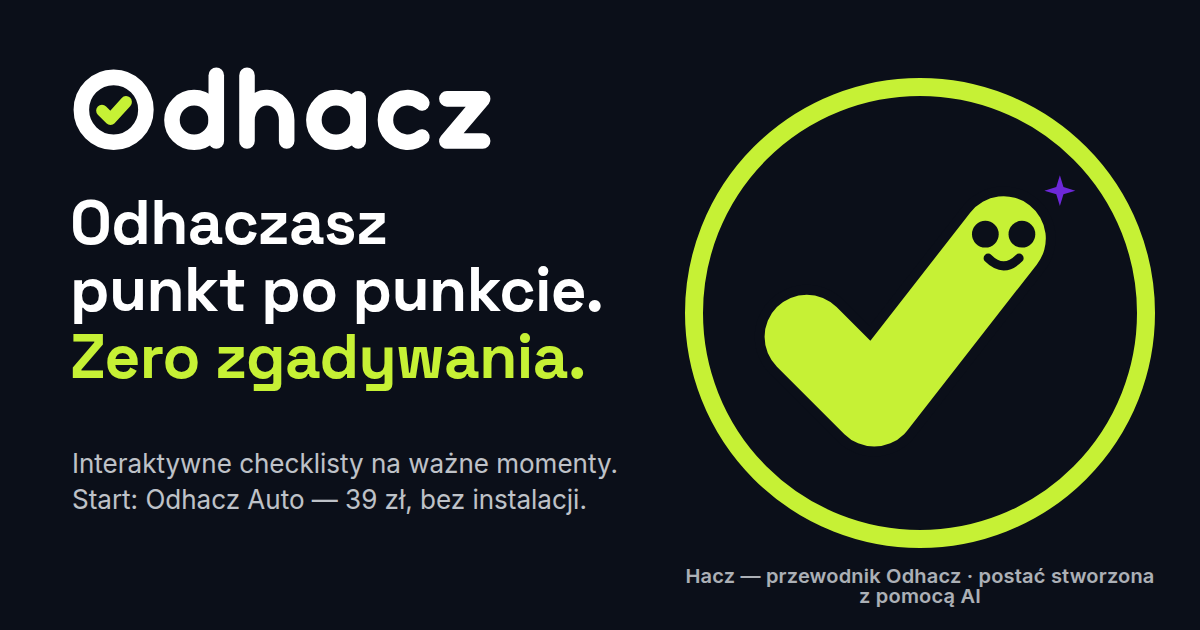
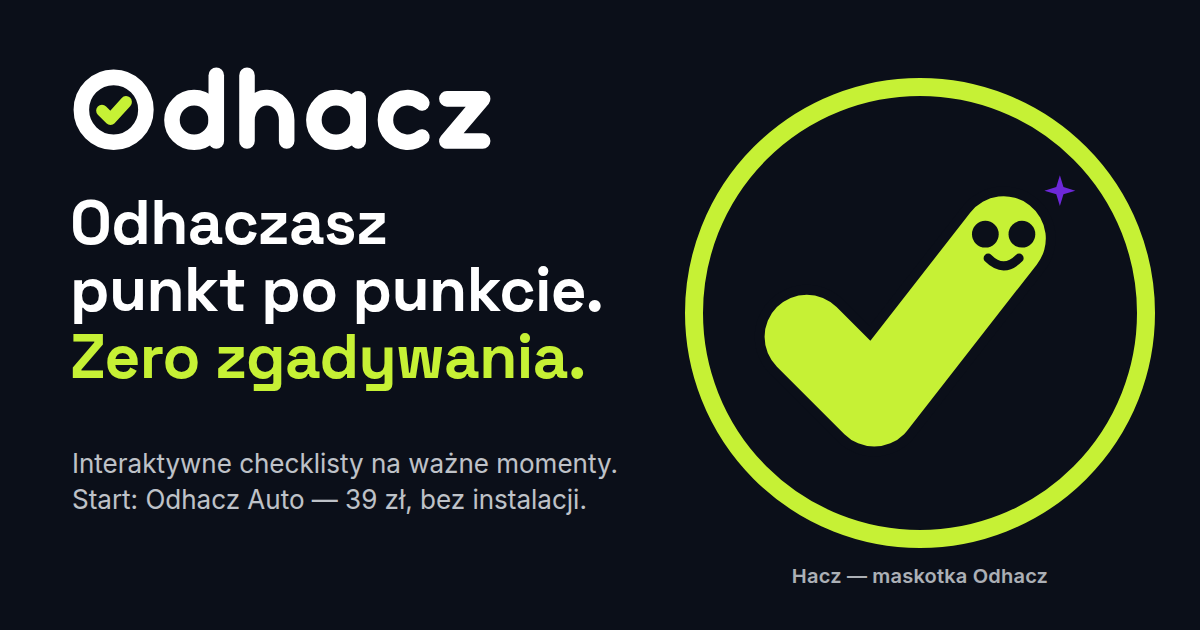
Hacz = maskotka Odhacz: koniec opowieści o AI w podpisach, bio, kreacjach i stronach; EXP-007 (płatne porównywanie raportów) w kolejce
- Podpis „Hacz — maskotka Odhacz” w aplikacji, SVG, kreacjach (PNG wyrenderowane ponownie), OG/cover/avatar, landingu, „O marce”, regulaminie, polityce, brand booku, tekstach prawnych, social.
- W stopkach prawnych zostaje tylko: „Ilustracje i postać Hacza zaprojektowane cyfrowo. Hacz to maskotka Odhacz, nie ekspert.”
- DECISIONS: doprecyzowanie narracji; EXPERIMENTS: EXP-007 z warunkami (zgoda na dane, brak sensu mikropłatności przy prowizji Stripe, masa krytyczna raportów).
- Testy: unit 38/38, e2e 1/1.

Claude-Session: https://claude.ai/code/session_01JzcUEgVUwo19DnA5ZAnGCB

Changed region(s): [[0.555, 0.9048, 0.9558, 0.9651]]

diff --git a/platform/public/assets/checklist/engine.js b/platform/public/assets/checklist/engine.js
@@ -94,7 +94,7 @@
 
   /* ------------------------------------------------------------------ mascot (Hacz) */
   // Placeholder: rounded lime check-mark character with eyes and a headlamp (Auto version). Replaced by /assets/brand/hacz.svg when present.
-  const HACZ_SVG = '<svg viewBox="0 0 120 120" xmlns="http://www.w3.org/2000/svg" role="img" aria-label="Hacz – przewodnik Odhacz">'
+  const HACZ_SVG = '<svg viewBox="0 0 120 120" xmlns="http://www.w3.org/2000/svg" role="img" aria-label="Hacz – maskotka Odhacz">'
     + '<circle cx="60" cy="60" r="56" fill="#0B0F19"/>'
     + '<path d="M28 62 L50 84 L94 38" fill="none" stroke="#C6F135" stroke-width="20" stroke-linecap="round" stroke-linejoin="round"/>'
     + '<circle cx="52" cy="51" r="6.5" fill="#0B0F19"/><circle cx="68" cy="43" r="6.5" fill="#0B0F19"/>'
@@ -114,7 +114,7 @@
   }
   function mascot(cls) {
     const wrap = el('span', { class: 'mascot ' + (cls || ''), html: HACZ_SVG });
-    const swap = () => { wrap.innerHTML = ''; wrap.append(el('img', { src: haczSrc, alt: 'Hacz – przewodnik Odhacz' })); };
+    const swap = () => { wrap.innerHTML = ''; wrap.append(el('img', { src: haczSrc, alt: 'Hacz – maskotka Odhacz' })); };
     if (haczReady === true) swap(); else if (haczReady === null) { haczWaiters.push(swap); probeHacz(); }
     return wrap;
   }
@@ -799,7 +799,7 @@
     else if (wp && !wp.complete) haczLine = 'Jesteś na kroku ' + nextTarget.stepN + '/' + wp.count + ' kreatora. ' + (cnt.problem ? 'Już ' + cnt.problem + ' ' + plural(cnt.problem, 'czerwona flaga', 'czerwone flagi', 'czerwonych flag') + ' – zapisuj notatki, przydadzą się w negocjacji.' : 'Dokończ go w domu – przy aucie nie będzie na to czasu.');
     else if (cnt.answered < cnt.total) haczLine = 'Masz ' + cnt.answered + ' z ' + cnt.total + ' punktów. ' + (cnt.problem ? 'Już ' + cnt.problem + ' ' + plural(cnt.problem, 'czerwona flaga', 'czerwone flagi', 'czerwonych flag') + ' – zapisuj notatki, przydadzą się w negocjacji.' : 'Na razie czysto. Nie zwalniaj przy silniku i jeździe próbnej.');
     else haczLine = 'Wszystko odhaczone. Sprawdź podsumowanie i zabierz listę uwag do rozmowy.';
-    out.push(el('div', { class: 'bubble' }, el('b', null, 'Hacz: '), haczLine, el('span', { class: 'sign' }, 'Hacz – przewodnik Odhacz')));
+    out.push(el('div', { class: 'bubble' }, el('b', null, 'Hacz: '), haczLine, el('span', { class: 'sign' }, 'Hacz – maskotka Odhacz')));
     // ONE primary card: „Kontynuuj: <następny krok>” (wizard step → next phase with unanswered items → summary)
     const kont = el('div', { class: 'card kontynuuj', 'data-testid': 'kontynuuj' },
       el('div', { class: 'kontynuuj__eyebrow' }, nextTarget.eyebrow),
@@ -883,7 +883,7 @@
     const self = this; const q = this.content.quick_start;
     if (!q) return [this.topbar('Quick start', ''), this.lockedCard('Ta wersja nie ma Quick startu.')];
     const out = [this.topbar(q.title || 'Quick start', '')];
-    out.push(el('div', { class: 'bubble bubble--inline' }, mascot(), el('div', null, el('b', null, 'Hacz: '), 'Trzy minuty, żeby oswoić narzędzie. Odhacz kroki, a potem wchodzisz w pierwszy etap.', el('span', { class: 'sign' }, 'Hacz – przewodnik Odhacz'))));
+    out.push(el('div', { class: 'bubble bubble--inline' }, mascot(), el('div', null, el('b', null, 'Hacz: '), 'Trzy minuty, żeby oswoić narzędzie. Odhacz kroki, a potem wchodzisz w pierwszy etap.', el('span', { class: 'sign' }, 'Hacz – maskotka Odhacz'))));
     const card = el('div', { class: 'card' });
     const list = el('ol', { class: 'steps' });
     const done = this.state.ui.qsSteps || {};
@@ -916,7 +916,7 @@
     chips.append(el('span', { class: 'chip', id: 'phase-progress' }, p.answered + '/' + p.total + ' odhaczone'));
     out.push(chips);
     if (ph.when) out.push(el('p', { class: 'when' }, el('span', { html: ICON.pin }), el('span', null, el('b', null, 'Kiedy: '), ph.when)));
-    if (ph.intro) out.push(el('div', { class: 'phase-intro' }, mascot(), el('div', { class: 'bubble' }, el('b', null, 'Hacz: '), ph.intro, el('span', { class: 'sign' }, 'Hacz – przewodnik Odhacz'))));
+    if (ph.intro) out.push(el('div', { class: 'phase-intro' }, mascot(), el('div', { class: 'bubble' }, el('b', null, 'Hacz: '), ph.intro, el('span', { class: 'sign' }, 'Hacz – maskotka Odhacz'))));
     ph.sections.forEach((sec) => {
       if (sec.title) out.push(el('div', { class: 'section-title' }, sec.title));
       if (c.paintSection === sec) out.push(this.paintCard({ interactive: true, live: true }));
@@ -1547,7 +1547,7 @@
     out.push(el('div', { class: 'wiz-head' }, el('h1', { 'data-testid': 'wiz-title' }, 'Krok ' + n + '/' + N + ' · ' + step.title), el('span', { class: 'chip', id: 'wiz-progress', 'aria-label': 'Odhaczone w tym kroku' }, sp.answered + '/' + sp.total)));
     out.push(el('div', { class: 'progress wiz-bar' }, el('i', { id: 'wiz-bar', style: 'width:' + (sp.total ? Math.round(100 * sp.answered / sp.total) : 0) + '%' })));
     if (n === 1 && w.phase.when) out.push(el('p', { class: 'when' }, el('span', { html: ICON.pin }), el('span', null, el('b', null, 'Kiedy: '), w.phase.when)));
-    if (step.hint) out.push(el('div', { class: 'bubble bubble--inline', 'data-testid': 'wiz-hint' }, mascot(), el('div', null, el('b', null, 'Hacz: '), step.hint, el('span', { class: 'sign' }, 'Hacz – przewodnik Odhacz'))));
+    if (step.hint) out.push(el('div', { class: 'bubble bubble--inline', 'data-testid': 'wiz-hint' }, mascot(), el('div', null, el('b', null, 'Hacz: '), step.hint, el('span', { class: 'sign' }, 'Hacz – maskotka Odhacz'))));
     if (step.call) this.callStepBody(step, out);
     else {
       if (step.intake && c.intake) out.push(this.intakeCard());
@@ -1843,7 +1843,7 @@
     out.push(el('h1', { style: 'font-size:26px;margin-top:4px' }, 'Najpierw odsiej. Potem sprawdzaj dokładnie.'));
     out.push(el('p', { class: 'muted' }, s.total + ' ' + plural(s.total, 'punkt', 'punkty', 'punktów') + ' z całej checklisty. Te same odpowiedzi co w etapach — nic nie robisz dwa razy.'));
     out.push(el('div', { class: 'chips' }, el('span', { class: 'chip' }, el('span', { html: ICON.clock }), '~10 min'), el('span', { class: 'chip', id: 'filtr-progress' }, s.answered + '/' + s.total + ' odhaczone')));
-    out.push(el('div', { class: 'bubble bubble--inline' }, mascot(), el('div', null, el('b', null, 'Hacz: '), 'Jeśli tu coś nie gra, reszta nie ma znaczenia — i oszczędzasz godzinę. Jeśli gra, dopiero zaczynasz.', el('span', { class: 'sign' }, 'Hacz – przewodnik Odhacz'))));
+    out.push(el('div', { class: 'bubble bubble--inline' }, mascot(), el('div', null, el('b', null, 'Hacz: '), 'Jeśli tu coś nie gra, reszta nie ma znaczenia — i oszczędzasz godzinę. Jeśli gra, dopiero zaczynasz.', el('span', { class: 'sign' }, 'Hacz – maskotka Odhacz'))));
     c.quickByPhase.forEach((g) => { out.push(el('div', { class: 'section-title' }, g.phase.title)); g.items.forEach((it) => out.push(this.itemRow(it))); });
     out.push(el('div', { id: 'filtr-verdict', 'data-testid': 'filtr-verdict' }, this.filterVerdict(s)));
     return out;
@@ -2137,7 +2137,7 @@
     const self = this; const t = this.content.contract_template;
     const out = [this.topbar(t ? (t.title || 'Wzór umowy') : 'Wzór umowy', '')];
     if (!t) { out.push(this.lockedCard('Wzór umowy jest częścią dodatku „Odhacz Auto: Po zakupie”.', true)); return out; }
-    out.push(el('div', { class: 'bubble bubble--inline' }, mascot(), el('div', null, el('b', null, 'Hacz: '), 'Wydrukuj dwa egzemplarze albo przepisz do dokumentu. Pola z kropkami wypełniasz długopisem przy sprzedawcy. To wzór edukacyjny, nie porada prawna.', el('span', { class: 'sign' }, 'Hacz – przewodnik Odhacz'))));
+    out.push(el('div', { class: 'bubble bubble--inline' }, mascot(), el('div', null, el('b', null, 'Hacz: '), 'Wydrukuj dwa egzemplarze albo przepisz do dokumentu. Pola z kropkami wypełniasz długopisem przy sprzedawcy. To wzór edukacyjny, nie porada prawna.', el('span', { class: 'sign' }, 'Hacz – maskotka Odhacz'))));
     out.push(el('button', { class: 'btn btn--primary btn--block mb', type: 'button', onclick: async () => { await self.preparePrint('contract'); track('contract_printed', {}); window.print(); } }, el('span', { html: ICON.print }), 'Drukuj wzór umowy'));
     out.push(el('div', { class: 'card' }, this.contractDom(false)));
     out.push(this.disclaimer());
@@ -2195,7 +2195,7 @@
         el('button', { class: 'btn', type: 'button', onclick: () => { download('odhacz-' + self.opts.product + '-kopia-' + todayStr() + '.json', 'application/json', JSON.stringify({ v: 1, t: self.state.t, active: self.state.active, cars: self.state.cars, product: self.opts.product, exported: nowIso() }, null, 1)); self.toast('Kopia pobrana'); } }, el('span', { html: ICON.download }), 'Eksport JSON'),
         el('button', { class: 'btn', type: 'button', onclick: () => fileInp.click() }, el('span', { html: ICON.upload }), 'Import JSON')), fileInp);
     out.push(card3);
-    out.push(el('div', { class: 'card card--soft' }, el('p', { class: 'small', style: 'margin:0' }, 'Hacz to przewodnik marki Odhacz: postać stworzona z pomocą AI, nie mechanik i nie rzeczoznawca. Mówi tekstami przygotowanymi przez zespół. W aplikacji nie działa żadna sztuczna inteligencja: oceny to jawne reguły, a Twoje dane nie trafiają do żadnego modelu AI. Ilustracje wygenerowane cyfrowo. ', el('a', { href: '/legal/regulamin.html' }, 'Regulamin'), ' · ', el('a', { href: '/legal/polityka-prywatnosci.html' }, 'Prywatność'), ' · ', el('a', { href: this.opts.shopUrl }, 'Sklep'))));
+    out.push(el('div', { class: 'card card--soft' }, el('p', { class: 'small', style: 'margin:0' }, 'Hacz to maskotka Odhacz – nie mechanik, nie rzeczoznawca. Oceny w aplikacji to jawne reguły opisane przy każdym punkcie. Ilustracje zaprojektowane cyfrowo. ', el('a', { href: '/legal/regulamin.html' }, 'Regulamin'), ' · ', el('a', { href: '/legal/polityka-prywatnosci.html' }, 'Prywatność'), ' · ', el('a', { href: this.opts.shopUrl }, 'Sklep'))));
     out.push(this.disclaimer());
     return out;
   };

diff --git a/platform/public/legal/o-marce.html b/platform/public/legal/o-marce.html
@@ -3,7 +3,7 @@
   O MARCE I O HACZU – wersja v1 z 2026-09-28.
   PLACEHOLDERY DO UZUPEŁNIENIA (wyszukaj „[[”):
     [[SPRZEDAWCA_NAZWA]], [[SPRZEDAWCA_ADRES]], [[NIP]], [[EMAIL_KONTAKT]], [[TELEFON]] (opcjonalnie)
-  Cel strony: jasna informacja, że „Hacz” jest postacią stworzoną z pomocą AI, a w narzędziu nie działa AI (wymóg uczciwości wobec klienta, zasady Meta dot. treści AI,
+  Cel strony: kto prowadzi markę, kim jest Hacz (maskotka, nie ekspert), skąd treści i ilustracje (wymóg uczciwości wobec klienta, zasady Meta dot. treści AI,
   obowiązki przejrzystości z art. 50 AI Act stosowane od 2.08.2026) oraz kto stoi za marką.
 -->
 <html lang="pl">
@@ -11,7 +11,7 @@
   <meta charset="utf-8">
   <meta name="viewport" content="width=device-width, initial-scale=1">
   <title>O marce Odhacz i o Haczu</title>
-  <meta name="description" content="Kto prowadzi markę Odhacz, kim jest Hacz (przewodnik marki – postać stworzona z pomocą AI, nie ekspert) i skąd pochodzą ilustracje.">
+  <meta name="description" content="Kto prowadzi markę Odhacz, kim jest Hacz (maskotka Odhacz, nie ekspert) i skąd pochodzą ilustracje.">
   <link rel="stylesheet" href="/legal/legal.css">
 </head>
 <body>
@@ -31,10 +31,10 @@
 
   <h2>Kim jest Hacz</h2>
   <div class="box">
-    <p><strong>Hacz to przewodnik marki Odhacz – postać stworzona z pomocą AI.</strong> Nie jest prawdziwą osobą, mechanikiem, rzeczoznawcą ani żadnym innym ekspertem. Nie jest też „asystentem AI”: nie rozmawia z Tobą, nie analizuje Twojego auta i nie generuje odpowiedzi – „mówi” tekstami, które przygotował zespół marki. Oceny w narzędziu (np. porównanie licznika z Historią pojazdu albo grubości lakieru z dachem) to jawne, opisane reguły, a Twoje dane nie trafiają do żadnego modelu sztucznej inteligencji.</p>
+    <p><strong>Hacz to maskotka Odhacz.</strong> Nie jest prawdziwą osobą, mechanikiem, rzeczoznawcą ani żadnym innym ekspertem i nie udziela indywidualnych porad – „mówi” tekstami, które przygotował zespół marki. Oceny w narzędziu (np. porównanie licznika z Historią pojazdu albo grubości lakieru z dachem) to jawne reguły opisane przy każdym punkcie.</p>
   </div>
   <ul>
-    <li>Hacz występuje na stronie, w narzędziu, w reklamach i w mediach społecznościowych. Wszędzie podpisujemy go jako <strong>„Hacz – przewodnik Odhacz”</strong>.</li>
+    <li>Hacz występuje na stronie, w narzędziu, w reklamach i w mediach społecznościowych. Wszędzie podpisujemy go jako <strong>„Hacz – maskotka Odhacz”</strong>.</li>
     <li>Kiedy widzisz lub słyszysz Hacza (grafika, animacja, głos), masz do czynienia z <strong>treścią wygenerowaną lub zmodyfikowaną cyfrowo</strong>, a nie z nagraniem człowieka.</li>
     <li>Hacz jest postacią stylizowaną (limonkowy „ptaszek” ✓ z oczami). Nie powstał na podstawie wizerunku żadnej realnej osoby.</li>
     <li>Hacz nie ocenia konkretnego samochodu, nie wycenia napraw i nie mówi „to auto jest bezpieczne”. Checklista podpowiada, <em>co i jak sprawdzić</em> oraz <em>kiedy zawołać mechanika</em> – decyzję podejmujesz Ty.</li>
@@ -43,7 +43,7 @@
   <h2>Skąd pochodzą treści i ilustracje</h2>
   <ul>
     <li><strong>Treść checklisty</strong> opracował zespół marki na podstawie powszechnie dostępnej wiedzy o oględzinach używanych aut, praktyki kupujących i przepisów (w części „Po zakupie”). Treść ma charakter edukacyjny i pomocniczy – nie zastępuje mechanika, rzeczoznawcy ani prawnika. Przed publikacją przegląda ją człowiek.</li>
-    <li><strong>Ilustracje, postać Hacza i grafiki reklamowe</strong> zostały wygenerowane i zaprojektowane cyfrowo, w tym z użyciem narzędzi sztucznej inteligencji, a następnie dopracowane przez nas. Zdjęcia samochodów, jeśli się pojawiają, są tylko tłem – bohaterem jest ekran z checklistą.</li>
+    <li><strong>Ilustracje, postać Hacza i grafiki reklamowe</strong> zaprojektowaliśmy cyfrowo (także z użyciem narzędzi AI) i dopracowaliśmy ręcznie. Zdjęcia samochodów, jeśli się pojawiają, są tylko tłem – bohaterem jest ekran z checklistą.</li>
     <li>Nazwy narzędzi i marek wymieniane w treściach należą do ich właścicieli; używamy ich wyłącznie opisowo.</li>
   </ul>
 
@@ -66,7 +66,7 @@
       <button type="button" class="linklike" data-consent-open>Ustawienia cookies</button>
     </nav>
     <p>[[SPRZEDAWCA_NAZWA]] · [[SPRZEDAWCA_ADRES]] · NIP [[NIP]] · <a href="mailto:[[EMAIL_KONTAKT]]">[[EMAIL_KONTAKT]]</a></p>
-    <p>Ilustracje i postać Hacza zostały wygenerowane i zaprojektowane cyfrowo (z użyciem narzędzi AI). Hacz to przewodnik marki – postać stworzona z pomocą AI, nie ekspert; w samym narzędziu nie działa sztuczna inteligencja.</p>
+    <p>Ilustracje i postać Hacza zaprojektowane cyfrowo. Hacz to maskotka Odhacz, nie ekspert.</p>
   </footer>
 </div>
 <script src="/assets/consent.js"></script>

diff --git a/creatives/templates/post-01-hacz.html b/creatives/templates/post-01-hacz.html
@@ -94,14 +94,14 @@ h1{font-size:128px;margin-top:10px}
 <body>
 <div class="canvas">
 <div class="bg"><div class="grid"></div><div class="glow" style="left:-10px;top:-120px"></div></div>
-<div class="top"><div class="wm"><img src="../../platform/public/assets/brand/wordmark-light.svg" alt="Odhacz" onerror="this.parentElement.classList.add('nofile')"><span class="wmf"><svg viewBox="0 0 64 64" aria-hidden="true"><circle cx="32" cy="32" r="25" fill="none" stroke="#fff" stroke-width="12"/><polyline points="23,32.6 29.6,39.2 41.6,26" fill="none" stroke="#C6F135" stroke-width="9" stroke-linecap="round" stroke-linejoin="round"/></svg>Odhacz</span></div><span class="tag">postać AI</span></div>
+<div class="top"><div class="wm"><img src="../../platform/public/assets/brand/wordmark-light.svg" alt="Odhacz" onerror="this.parentElement.classList.add('nofile')"><span class="wmf"><svg viewBox="0 0 64 64" aria-hidden="true"><circle cx="32" cy="32" r="25" fill="none" stroke="#fff" stroke-width="12"/><polyline points="23,32.6 29.6,39.2 41.6,26" fill="none" stroke="#C6F135" stroke-width="9" stroke-linecap="round" stroke-linejoin="round"/></svg>Odhacz</span></div><span class="tag">maskotka</span></div>
 <div class="stage">
-  <div class="mascot" style="width:560px;height:560px;"><img src="../../platform/public/assets/brand/hacz-latarka.svg" alt="Hacz — przewodnik Odhacz" onerror="this.parentElement.classList.add('nofile')"><svg viewBox="0 0 256 256" aria-hidden="true"><path d="M56 140L104 188L196 70" fill="none" stroke="#C6F135" stroke-width="60" stroke-linecap="round" stroke-linejoin="round"/><circle cx="184" cy="64" r="8" fill="#0B0F19"/><circle cx="208" cy="64" r="8" fill="#0B0F19"/><path d="M187 82Q196 91 205 82" fill="none" stroke="#0B0F19" stroke-width="6" stroke-linecap="round"/></svg></div>
+  <div class="mascot" style="width:560px;height:560px;"><img src="../../platform/public/assets/brand/hacz-latarka.svg" alt="Hacz — maskotka Odhacz" onerror="this.parentElement.classList.add('nofile')"><svg viewBox="0 0 256 256" aria-hidden="true"><path d="M56 140L104 188L196 70" fill="none" stroke="#C6F135" stroke-width="60" stroke-linecap="round" stroke-linejoin="round"/><circle cx="184" cy="64" r="8" fill="#0B0F19"/><circle cx="208" cy="64" r="8" fill="#0B0F19"/><path d="M187 82Q196 91 205 82" fill="none" stroke="#0B0F19" stroke-width="6" stroke-linecap="round"/></svg></div>
   <div class="hello">Cześć, jestem Hacz.</div>
   <h1>Zero zgadywania.</h1>
   <p class="sub">Nie udaję mechanika. Pilnuję, żebyś przy aucie sprawdził wszystko po kolei — i wiedział, kiedy odpuścić.</p>
 </div>
-<div class="sig"><svg viewBox="0 0 64 64" aria-hidden="true"><circle cx="32" cy="32" r="25" fill="none" stroke="rgba(255,255,255,.7)" stroke-width="12"/><polyline points="23,32.6 29.6,39.2 41.6,26" fill="none" stroke="#C6F135" stroke-width="9" stroke-linecap="round" stroke-linejoin="round"/></svg><span>Hacz — przewodnik Odhacz, postać stworzona z pomocą AI, nie mechanik. Ilustracja zaprojektowana cyfrowo.</span></div>
+<div class="sig"><svg viewBox="0 0 64 64" aria-hidden="true"><circle cx="32" cy="32" r="25" fill="none" stroke="rgba(255,255,255,.7)" stroke-width="12"/><polyline points="23,32.6 29.6,39.2 41.6,26" fill="none" stroke="#C6F135" stroke-width="9" stroke-linecap="round" stroke-linejoin="round"/></svg><span>Hacz — maskotka Odhacz, nie mechanik. Ilustracja zaprojektowana cyfrowo.</span></div>
 </div>
 </body>
 </html>

diff --git a/platform/public/legal/regulamin.html b/platform/public/legal/regulamin.html
@@ -96,7 +96,7 @@
   <p>Interaktywna checklista z terminami na czas po decyzji o kupnie: zanim zapłacisz (umowa, dokumenty, płatność), wzór umowy kupna-sprzedaży z objaśnieniami, pierwsze 14 dni (PCC-3, rejestracja, OC, CEPiK), pierwszy serwis i pierwsze 30 dni, przypomnienia do kalendarza (pliki <code>.ics</code>). Dodatek można kupić tylko razem z Produktem głównym (jako opcję w formularzu płatności).</p>
   <h3>3.3. Czym Narzędzie nie jest</h3>
   <div class="note">
-    <p><strong>Narzędzie ma charakter edukacyjny i informacyjny.</strong> Jest materiałem pomocniczym opracowanym na podstawie powszechnie dostępnej wiedzy i praktyki. <strong>Nie zastępuje przeglądu u mechanika, opinii rzeczoznawcy ani – w razie sporu ze sprzedawcą auta – porady prawnej.</strong> Nie wycenia napraw, nie ocenia stanu konkretnego pojazdu i nie gwarantuje wykrycia każdej wady; efekt zależy od Twojej sytuacji i staranności. Podpowiada za to, kiedy warto zawołać mechanika. Treści Dodatku dotyczące formalności odzwierciedlają stan prawny na dzień wersji Regulaminu; przed załatwieniem sprawy urzędowej sprawdź aktualne wymagania. <strong>„Hacz” to przewodnik marki – postać stworzona z pomocą AI, nie mechanik ani ekspert; w samym narzędziu nie działa sztuczna inteligencja</strong> (więcej: <a href="/legal/o-marce.html">O marce i o Haczu</a>).</p>
+    <p><strong>Narzędzie ma charakter edukacyjny i informacyjny.</strong> Jest materiałem pomocniczym opracowanym na podstawie powszechnie dostępnej wiedzy i praktyki. <strong>Nie zastępuje przeglądu u mechanika, opinii rzeczoznawcy ani – w razie sporu ze sprzedawcą auta – porady prawnej.</strong> Nie wycenia napraw, nie ocenia stanu konkretnego pojazdu i nie gwarantuje wykrycia każdej wady; efekt zależy od Twojej sytuacji i staranności. Podpowiada za to, kiedy warto zawołać mechanika. Treści Dodatku dotyczące formalności odzwierciedlają stan prawny na dzień wersji Regulaminu; przed załatwieniem sprawy urzędowej sprawdź aktualne wymagania. <strong>„Hacz” to maskotka Odhacz, nie mechanik ani ekspert</strong> (więcej: <a href="/legal/o-marce.html">O marce i o Haczu</a>).</p>
   </div>
   <h3>3.4. Wymagania techniczne</h3>
   <ul>
@@ -259,7 +259,7 @@
       <button type="button" class="linklike" data-consent-open>Ustawienia cookies</button>
     </nav>
     <p>[[SPRZEDAWCA_NAZWA]] · [[SPRZEDAWCA_ADRES]] · NIP [[NIP]] · <a href="mailto:[[EMAIL_KONTAKT]]">[[EMAIL_KONTAKT]]</a></p>
-    <p>Ilustracje i postać Hacza zostały wygenerowane i zaprojektowane cyfrowo (z użyciem narzędzi AI). Hacz to przewodnik marki – postać stworzona z pomocą AI, nie ekspert; w samym narzędziu nie działa sztuczna inteligencja.</p>
+    <p>Ilustracje i postać Hacza zaprojektowane cyfrowo. Hacz to maskotka Odhacz, nie ekspert.</p>
   </footer>
 </div>
 <script src="/assets/consent.js"></script>

diff --git a/creatives/templates/bledy-carousel-08.html b/creatives/templates/bledy-carousel-08.html
@@ -128,7 +128,7 @@ h1{font-size:76px;margin-top:32px}
   <div class="crow"><span class="ic"><svg viewBox="0 0 24 24" fill="none" stroke="currentColor" stroke-width="3.4" stroke-linecap="round" stroke-linejoin="round" aria-hidden="true"><path d="M5 12.5l4.5 4.5L19 7"/></svg></span><span>Lista uwag do negocjacji</span></div>
   <div class="crow"><span class="ic"><svg viewBox="0 0 24 24" fill="none" stroke="currentColor" stroke-width="3.4" stroke-linecap="round" stroke-linejoin="round" aria-hidden="true"><path d="M5 12.5l4.5 4.5L19 7"/></svg></span><span>Gotowe zdania i bezpieczna transakcja</span></div>
 </div>
-<div class="cta"><div><span class="big">39 zł · dostęp od razu</span><span class="small">7 etapów · lista uwag do negocjacji</span></div><div class="mascot" style="width:190px;height:190px;"><img src="../../platform/public/assets/brand/hacz-kciuk.svg" alt="Hacz — przewodnik Odhacz" onerror="this.parentElement.classList.add('nofile')"><svg viewBox="0 0 256 256" aria-hidden="true"><path d="M56 140L104 188L196 70" fill="none" stroke="#C6F135" stroke-width="60" stroke-linecap="round" stroke-linejoin="round"/><circle cx="184" cy="64" r="8" fill="#0B0F19"/><circle cx="208" cy="64" r="8" fill="#0B0F19"/><path d="M187 82Q196 91 205 82" fill="none" stroke="#0B0F19" stroke-width="6" stroke-linecap="round"/></svg></div></div>
+<div class="cta"><div><span class="big">39 zł · dostęp od razu</span><span class="small">7 etapów · lista uwag do negocjacji</span></div><div class="mascot" style="width:190px;height:190px;"><img src="../../platform/public/assets/brand/hacz-kciuk.svg" alt="Hacz — maskotka Odhacz" onerror="this.parentElement.classList.add('nofile')"><svg viewBox="0 0 256 256" aria-hidden="true"><path d="M56 140L104 188L196 70" fill="none" stroke="#C6F135" stroke-width="60" stroke-linecap="round" stroke-linejoin="round"/><circle cx="184" cy="64" r="8" fill="#0B0F19"/><circle cx="208" cy="64" r="8" fill="#0B0F19"/><path d="M187 82Q196 91 205 82" fill="none" stroke="#0B0F19" stroke-width="6" stroke-linecap="round"/></svg></div></div>
 </div>
 </body>
 </html>

diff --git a/platform/public/index.html b/platform/public/index.html
@@ -443,7 +443,7 @@
         </article>
         <article class="obj-card">
           <h3>„Nie znam Was.”</h3>
-          <p>Za Odhacz stoi [[SPRZEDAWCA_NAZWA]] z [[MIASTO]], NIP [[NIP]] — te same dane zobaczysz w Bibliotece reklam Meta, w stopce i w regulaminie. Płacisz przez Stripe (BLIK, karta, Przelewy24). Jeśli narzędzie Ci nie pomoże, w 14 dni oddajemy pieniądze — bez tłumaczenia. Hacz, nasz przewodnik, jest postacią AI: nie udaje mechanika i nie ocenia, czy auto jest bezpieczne.</p>
+          <p>Za Odhacz stoi [[SPRZEDAWCA_NAZWA]] z [[MIASTO]], NIP [[NIP]] — te same dane zobaczysz w Bibliotece reklam Meta, w stopce i w regulaminie. Płacisz przez Stripe (BLIK, karta, Przelewy24). Jeśli narzędzie Ci nie pomoże, w 14 dni oddajemy pieniądze — bez tłumaczenia. Hacz, nasza maskotka, nie udaje mechanika i nie ocenia, czy auto jest bezpieczne.</p>
         </article>
       </div>
     </div>
@@ -569,7 +569,7 @@
       <li><a href="/legal/o-marce.html">O marce i o Haczu</a></li>
       <li><button type="button" data-cookie-settings>Ustawienia cookies</button></li>
     </ul>
-    <p>Hacz to przewodnik marki — postać stworzona z pomocą AI, nie mechanik. W narzędziu nie działa sztuczna inteligencja: oceny to jawne reguły. Ilustracje zaprojektowane cyfrowo. Raport i porównanie aut na tej stronie to przykłady, nie wyniki prawdziwych oględzin.</p>
+    <p>Hacz to maskotka Odhacz, nie mechanik. Ilustracje zaprojektowane cyfrowo. Raport i porównanie aut na tej stronie to przykłady, nie wyniki prawdziwych oględzin.</p>
     <p>Odhacz Auto to narzędzie edukacyjne i pomocnicze: nie zastępuje mechanika ani rzeczoznawcy, nie wycenia napraw i nie gwarantuje wykrycia każdej wady.</p>
   </div>
 </footer>

diff --git a/creatives/templates/post-05-dealbreakery.html b/creatives/templates/post-05-dealbreakery.html
@@ -105,7 +105,7 @@ h1{font-size:88px;margin-top:32px}
   <div class="crow bad"><span class="ic"><svg viewBox="0 0 24 24" fill="none" stroke="currentColor" stroke-width="3.4" stroke-linecap="round" stroke-linejoin="round" aria-hidden="true"><path d="M6 6l12 12M18 6L6 18"/></svg></span><span>Ślady spawania lub naprawy konstrukcji</span></div>
 </div>
 <p class="rule">Tu nie negocjujesz. <b>Wsiadasz w swoje auto i jedziesz do domu.</b></p>
-<div class="sig"><svg viewBox="0 0 64 64" aria-hidden="true"><circle cx="32" cy="32" r="25" fill="none" stroke="rgba(255,255,255,.7)" stroke-width="12"/><polyline points="23,32.6 29.6,39.2 41.6,26" fill="none" stroke="#C6F135" stroke-width="9" stroke-linecap="round" stroke-linejoin="round"/></svg><span>Hacz — przewodnik Odhacz, postać stworzona z pomocą AI, nie mechanik.</span></div>
+<div class="sig"><svg viewBox="0 0 64 64" aria-hidden="true"><circle cx="32" cy="32" r="25" fill="none" stroke="rgba(255,255,255,.7)" stroke-width="12"/><polyline points="23,32.6 29.6,39.2 41.6,26" fill="none" stroke="#C6F135" stroke-width="9" stroke-linecap="round" stroke-linejoin="round"/></svg><span>Hacz — maskotka Odhacz, nie mechanik.</span></div>
 </div>
 </body>
 </html>

diff --git a/creatives/templates/post-02-cieply-silnik.html b/creatives/templates/post-02-cieply-silnik.html
@@ -109,7 +109,7 @@ h1{font-size:84px;margin-top:40px}
 <div class="state"><span class="tag" style="border-color:rgba(220,38,38,.7);color:#FCA5A5">silnik przy oględzinach: ciepły</span></div>
 <h1>Sprzedawca przyjechał ciepłym autem? To nie przypadek.</h1>
 <p class="sub">Zimny start pokazuje stuki, dym i nierówną pracę. Rozgrzany silnik to zasłona. <b>Umawiając oględziny, powiedz wprost: auto ma być zimne.</b></p>
-<div class="sig"><svg viewBox="0 0 64 64" aria-hidden="true"><circle cx="32" cy="32" r="25" fill="none" stroke="rgba(255,255,255,.7)" stroke-width="12"/><polyline points="23,32.6 29.6,39.2 41.6,26" fill="none" stroke="#C6F135" stroke-width="9" stroke-linecap="round" stroke-linejoin="round"/></svg><span>Hacz — przewodnik Odhacz, postać stworzona z pomocą AI, nie mechanik.</span></div>
+<div class="sig"><svg viewBox="0 0 64 64" aria-hidden="true"><circle cx="32" cy="32" r="25" fill="none" stroke="rgba(255,255,255,.7)" stroke-width="12"/><polyline points="23,32.6 29.6,39.2 41.6,26" fill="none" stroke="#C6F135" stroke-width="9" stroke-linecap="round" stroke-linejoin="round"/></svg><span>Hacz — maskotka Odhacz, nie mechanik.</span></div>
 </div>
 </body>
 </html>

diff --git a/creatives/templates/post-03-skrypt-telefonu.html b/creatives/templates/post-03-skrypt-telefonu.html
@@ -105,7 +105,7 @@ h1{font-size:88px;margin-top:32px}
   <li><span class="n">5</span><span>Skąd auto — historia, import, serwis?</span></li>
 </ol>
 <p class="rule">Odpowiedzi wymijające na 1–3 = zostań w domu.</p>
-<div class="sig"><svg viewBox="0 0 64 64" aria-hidden="true"><circle cx="32" cy="32" r="25" fill="none" stroke="rgba(255,255,255,.7)" stroke-width="12"/><polyline points="23,32.6 29.6,39.2 41.6,26" fill="none" stroke="#C6F135" stroke-width="9" stroke-linecap="round" stroke-linejoin="round"/></svg><span>Hacz — przewodnik Odhacz, postać stworzona z pomocą AI, nie mechanik.</span></div>
+<div class="sig"><svg viewBox="0 0 64 64" aria-hidden="true"><circle cx="32" cy="32" r="25" fill="none" stroke="rgba(255,255,255,.7)" stroke-width="12"/><polyline points="23,32.6 29.6,39.2 41.6,26" fill="none" stroke="#C6F135" stroke-width="9" stroke-linecap="round" stroke-linejoin="round"/></svg><span>Hacz — maskotka Odhacz, nie mechanik.</span></div>
 </div>
 </body>
 </html>

diff --git a/platform/public/legal/polityka-prywatnosci.html b/platform/public/legal/polityka-prywatnosci.html
@@ -227,7 +227,7 @@
       <button type="button" class="linklike" data-consent-open>Ustawienia cookies</button>
     </nav>
     <p>[[SPRZEDAWCA_NAZWA]] · [[SPRZEDAWCA_ADRES]] · NIP [[NIP]] · <a href="mailto:[[EMAIL_KONTAKT]]">[[EMAIL_KONTAKT]]</a></p>
-    <p>Ilustracje i postać Hacza zostały wygenerowane i zaprojektowane cyfrowo (z użyciem narzędzi AI). Hacz to przewodnik marki – postać stworzona z pomocą AI, nie ekspert; w samym narzędziu nie działa sztuczna inteligencja.</p>
+    <p>Ilustracje i postać Hacza zaprojektowane cyfrowo. Hacz to maskotka Odhacz, nie ekspert.</p>
   </footer>
 </div>
 <script src="/assets/consent.js"></script>

diff --git a/creatives/brand-templates/avatar.html b/creatives/brand-templates/avatar.html
@@ -7,5 +7,5 @@ html,body{margin:0;width:100vw;height:100vh;overflow:hidden;background:#0B0F19}
 img{position:absolute;left:50%;top:50%;width:640px;height:640px;transform:translate(-52%,-49%)}
 </style></head><body>
 <div class="ring"></div>
-<img src="../../platform/public/assets/brand/hacz.svg" alt="Hacz — przewodnik Odhacz">
+<img src="../../platform/public/assets/brand/hacz.svg" alt="Hacz — maskotka Odhacz">
 </body></html>

diff --git a/creatives/brand-templates/og.html b/creatives/brand-templates/og.html
@@ -19,5 +19,5 @@ h1 em{font-style:normal;color:#C6F135}
 <p class="sub">Interaktywne checklisty na ważne momenty.<br>Start: Odhacz Auto — 39 zł, bez instalacji.</p>
 <div class="ring"></div>
 <img class="hacz" src="../../platform/public/assets/brand/hacz.svg" alt="">
-<div class="cap">Hacz — przewodnik Odhacz · postać stworzona z pomocą AI</div>
+<div class="cap">Hacz — maskotka Odhacz</div>
 </body></html>
